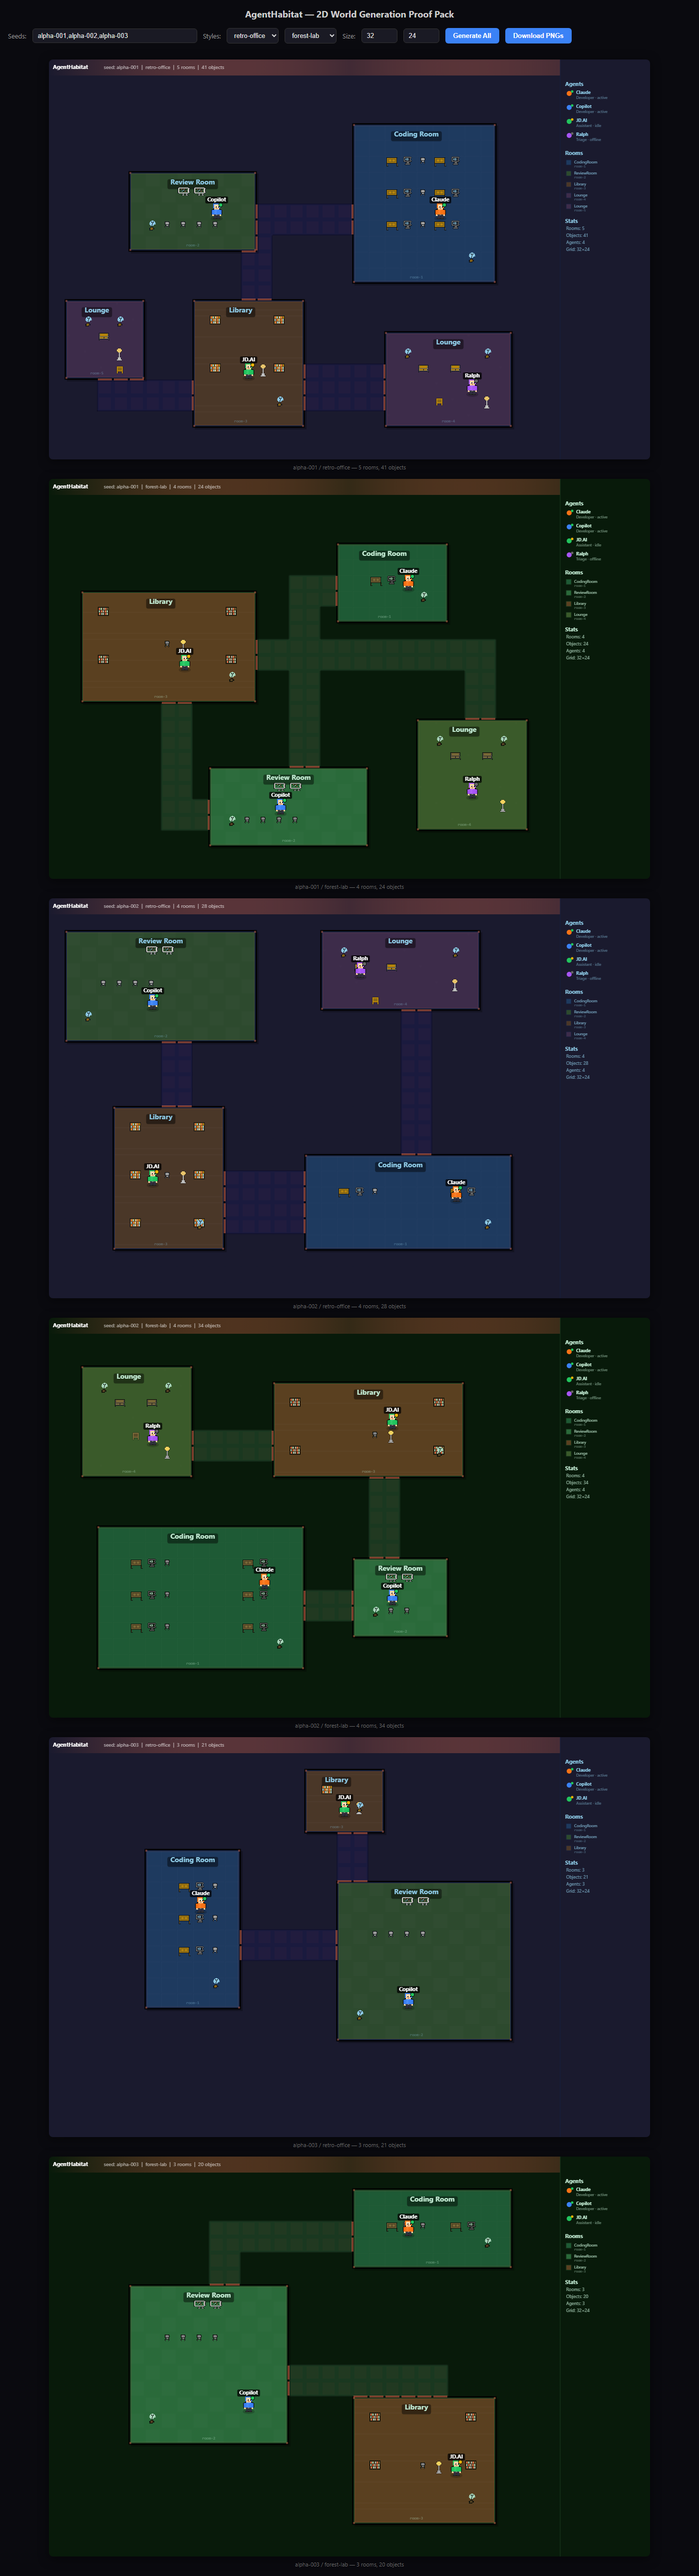
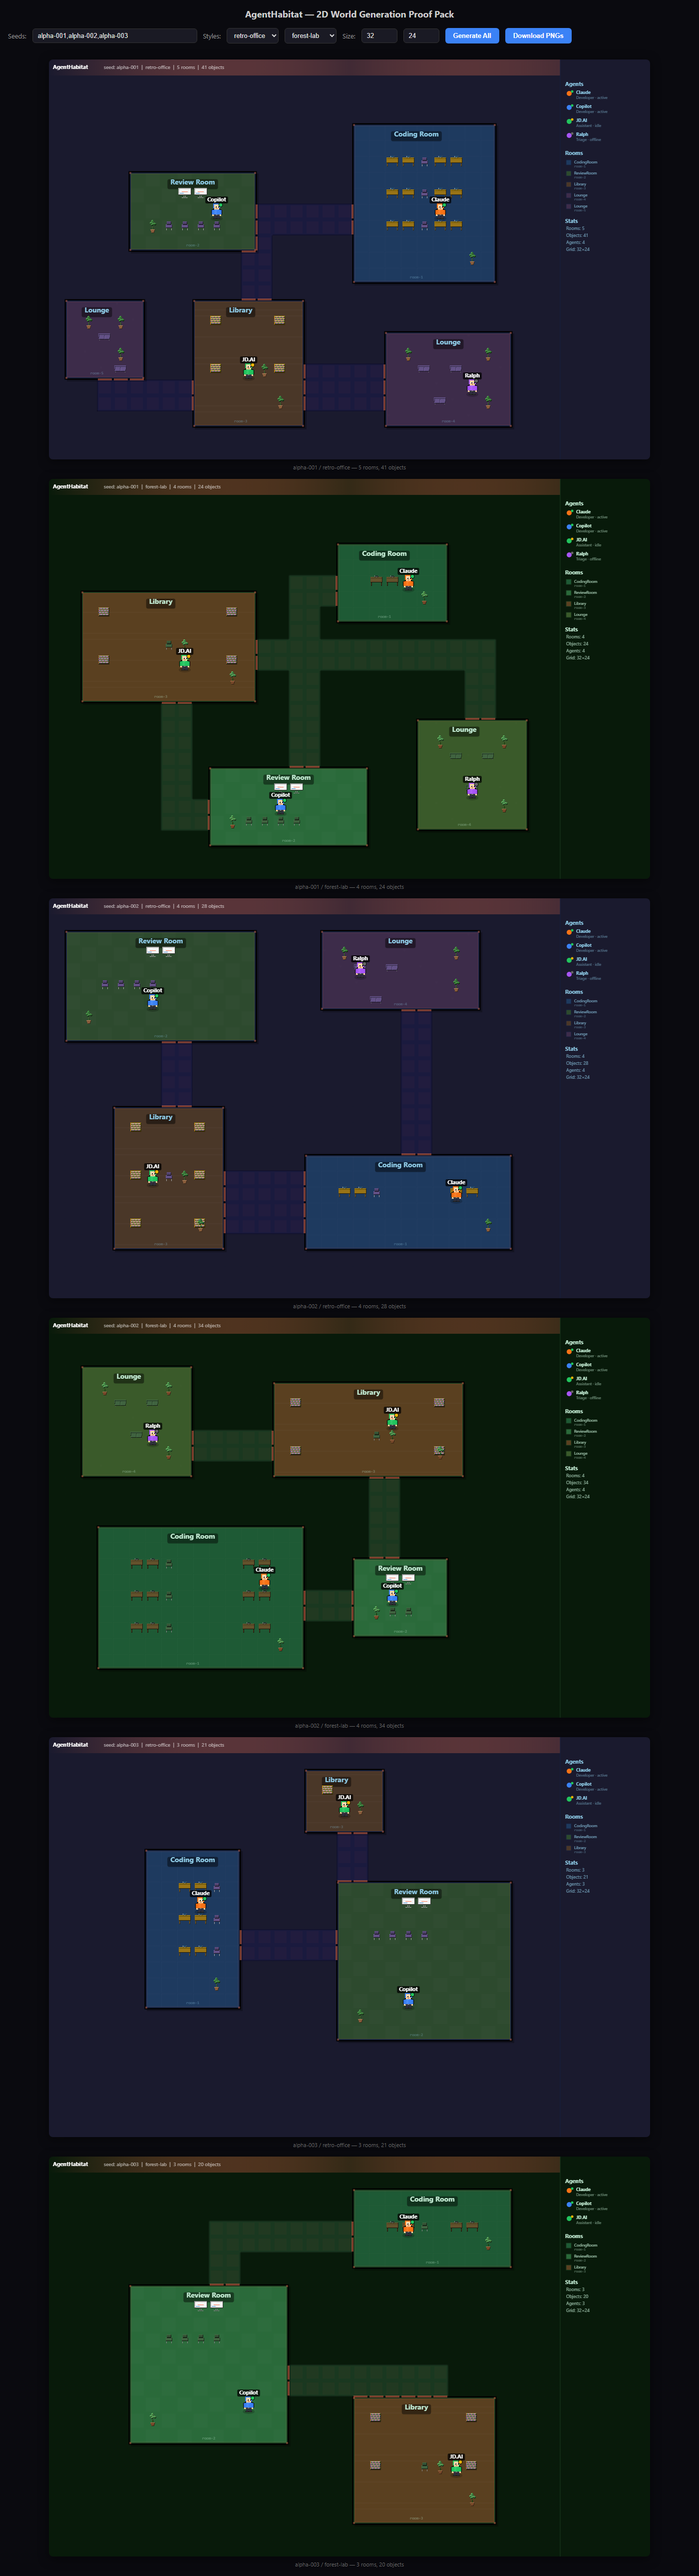
feat(renderer): integrate heightmap lighting into worldgen — all objects now per-pixel lit
Objects now rendered with heightmap-based per-pixel lighting:
- Directional light source (top-left) with diffuse + ambient
- Proper shadows on desk surfaces, monitor screens, bookshelf shelves
- Plant leaves get volumetric lighting from leaf heightmap
- Whiteboard with raised frame and scribble marks
- Couch with armrest depth and cushion division
- Material palettes per theme (wood, metal, fabric, foliage)
- Factory pattern: HM_FACTORIES maps object type → heightmap generator

Massive visual upgrade from flat color fills to lit 3D-feeling sprites.

diff --git a/tools/worldgen-renderer.html b/tools/worldgen-renderer.html
@@ -303,6 +303,123 @@ function drawPixelSprite(ctx, name, px, py, style, scale = 2, overrideColor = nu
   }
 }
 
+// --- Heightmap Lighting Engine ---
+const LIGHT = { x: -0.4, y: -0.6, z: 0.7 };
+function computeLight(hm, w, h) {
+  const l = new Float32Array(w * h);
+  for (let y = 0; y < h; y++) for (let x = 0; x < w; x++) {
+    const i = y * w + x;
+    if (!hm[i]) continue;
+    const hL = x > 0 ? hm[i-1] : hm[i], hR = x < w-1 ? hm[i+1] : hm[i];
+    const hU = y > 0 ? hm[i-w] : hm[i], hD = y < h-1 ? hm[i+w] : hm[i];
+    const nx = (hL-hR)*0.5, ny = (hU-hD)*0.5, nz = 1;
+    const len = Math.sqrt(nx*nx+ny*ny+nz*nz);
+    l[i] = Math.max(0.3, Math.min(1.4, 0.4 + (nx/len*LIGHT.x + ny/len*LIGHT.y + nz/len*LIGHT.z)));
+  }
+  return l;
+}
+function hex2rgb(h) { return { r: parseInt(h.slice(1,3),16), g: parseInt(h.slice(3,5),16), b: parseInt(h.slice(5,7),16) }; }
+function rgb2hex(r,g,b) { return '#'+[r,g,b].map(c=>Math.max(0,Math.min(255,Math.round(c))).toString(16).padStart(2,'0')).join(''); }
+
+function renderLitSprite(ctx, spr, px, py) {
+  const light = computeLight(spr.hm, spr.w, spr.h);
+  for (let y = 0; y < spr.h; y++) for (let x = 0; x < spr.w; x++) {
+    const i = y * spr.w + x;
+    if (!spr.c[i]) continue;
+    const rgb = hex2rgb(spr.c[i]);
+    const b = light[i];
+    ctx.fillStyle = rgb2hex(rgb.r*b, rgb.g*b, rgb.b*b);
+    ctx.fillRect(px + x, py + y, 1, 1);
+  }
+}
+
+function hmDesk(pal) {
+  const w=32,h=32,c=new Array(w*h).fill(null),hm=new Float32Array(w*h);
+  const wood = pal.wood||'#8b6914', wl = pal.woodLight||'#b8960b', wd = pal.woodDark||'#6b4e1e';
+  const met = pal.metal||'#a0a0a0', scr = pal.screen||'#1a4a6a';
+  for(let y=4;y<15;y++) for(let x=4;x<28;x++) { c[y*w+x]=wood; hm[y*w+x]=4+(y===4?1:0); }
+  for(let x=5;x<27;x++) { c[5*w+x]=wl; hm[5*w+x]=5; }
+  for(let y=15;y<22;y++) for(const lx of[5,6,25,26]) { c[y*w+lx]=wd; hm[y*w+lx]=2; }
+  for(let y=1;y<4;y++) for(let x=12;x<20;x++) { c[y*w+x]=met; hm[y*w+x]=6; }
+  for(let y=1;y<3;y++) for(let x=13;x<19;x++) { c[y*w+x]=scr; hm[y*w+x]=6.5; }
+  c[4*w+15]=met; c[4*w+16]=met; hm[4*w+15]=5; hm[4*w+16]=5;
+  return {w,h,c,hm};
+}
+function hmChair(pal) {
+  const w=32,h=32,c=new Array(w*h).fill(null),hm=new Float32Array(w*h);
+  const fab = pal.fabric||'#4a3a6a', met = pal.metal||'#a0a0a0';
+  for(let y=10;y<17;y++) for(let x=10;x<23;x++) { c[y*w+x]=fab; hm[y*w+x]=3; }
+  for(let y=4;y<10;y++) for(let x=12;x<21;x++) { c[y*w+x]=fab; hm[y*w+x]=5+(10-y)*0.3; }
+  for(let y=17;y<22;y++) for(const lx of[11,21]) { c[y*w+lx]=met; hm[y*w+lx]=1; }
+  return {w,h,c,hm};
+}
+function hmPlant(pal) {
+  const w=32,h=32,c=new Array(w*h).fill(null),hm=new Float32Array(w*h);
+  const pot=pal.pot||'#8b5e3c', rim=pal.potRim||'#a07050', stem=pal.stem||'#3a5a2a';
+  const leaf=pal.leaf||'#4a8a4a', ld=pal.leafDark||'#2d6a2d';
+  for(let y=20;y<27;y++){const ins=Math.floor((y-20)*0.3);for(let x=12+ins;x<20-ins;x++){c[y*w+x]=pot;hm[y*w+x]=3-ins*0.5;}}
+  for(let x=11;x<21;x++){c[20*w+x]=rim;hm[20*w+x]=4;}
+  for(let y=14;y<20;y++){c[y*w+15]=stem;c[y*w+16]=stem;hm[y*w+15]=2;hm[y*w+16]=2;}
+  for(const[cx,cy]of[[14,10],[18,8],[12,7],[16,5],[20,9],[15,3]]) for(let dy=-2;dy<=2;dy++) for(let dx=-2;dx<=2;dx++){
+    if(dx*dx+dy*dy>5)continue;const px=cx+dx,py=cy+dy;if(px<0||py<0||px>=w||py>=h)continue;
+    const d=Math.sqrt(dx*dx+dy*dy);c[py*w+px]=d<1.5?ld:leaf;hm[py*w+px]=Math.max(hm[py*w+px],6-d);
+  }
+  return {w,h,c,hm};
+}
+function hmBookshelf(pal) {
+  const w=32,h=32,c=new Array(w*h).fill(null),hm=new Float32Array(w*h);
+  const wood=pal.wood||'#8b6914',wl=pal.woodLight||'#b8960b';
+  const bc=['#cc4444','#44aa44','#4444cc','#ccaa44','#aa44aa','#44aaaa'];
+  for(let y=1;y<19;y++) for(let x=3;x<25;x++){c[y*w+x]=wood;hm[y*w+x]=2;}
+  for(const sy of[1,5,9,13,17]) for(let x=3;x<25;x++){c[sy*w+x]=wl;hm[sy*w+x]=3;}
+  for(const sy of[2,6,10,14]) for(let x=4;x<24;x++){
+    const ci=(x*7+sy*13)%bc.length;
+    for(let by=sy;by<sy+3;by++){c[by*w+x]=bc[ci];hm[by*w+x]=4+((x+sy)%3)*0.5;}
+  }
+  return {w,h,c,hm};
+}
+function hmWhiteboard(pal) {
+  const w=32,h=32,c=new Array(w*h).fill(null),hm=new Float32Array(w*h);
+  const met=pal.metal||'#a0a0a0';
+  for(let y=2;y<14;y++) for(let x=4;x<28;x++){c[y*w+x]='#e0e0e0';hm[y*w+x]=5;}
+  for(let y=1;y<15;y++){c[y*w+3]=met;c[y*w+28]=met;hm[y*w+3]=6;hm[y*w+28]=6;}
+  for(let x=3;x<29;x++){c[1*w+x]=met;c[14*w+x]=met;hm[1*w+x]=6;hm[14*w+x]=6;}
+  for(let x=8;x<16;x++){c[5*w+x]='#333';hm[5*w+x]=5.2;}
+  for(let x=10;x<22;x++){c[8*w+x]='#e76f51';hm[8*w+x]=5.2;}
+  for(let x=6;x<14;x++){c[11*w+x]='#3a7aba';hm[11*w+x]=5.2;}
+  for(let y=15;y<20;y++){c[y*w+14]=met;c[y*w+17]=met;hm[y*w+14]=2;hm[y*w+17]=2;}
+  for(let x=10;x<22;x++){c[20*w+x]=met;hm[20*w+x]=1;}
+  return {w,h,c,hm};
+}
+function hmCouch(pal) {
+  const w=32,h=32,c=new Array(w*h).fill(null),hm=new Float32Array(w*h);
+  const fab=pal.fabric||'#4a3a6a',met=pal.metal||'#707070';
+  for(let y=4;y<16;y++) for(let x=4;x<26;x++){c[y*w+x]=fab;hm[y*w+x]=3+(y<6?1:0);}
+  // Armrests
+  for(let y=4;y<12;y++){c[y*w+3]=fab;c[y*w+26]=fab;hm[y*w+3]=5;hm[y*w+26]=5;}
+  // Cushion division
+  for(let y=8;y<15;y++){c[y*w+15]=fab;hm[y*w+15]=2;}
+  // Legs
+  for(const lx of[5,24]){c[16*w+lx]=met;c[17*w+lx]=met;hm[16*w+lx]=1;hm[17*w+lx]=1;}
+  return {w,h,c,hm};
+}
+
+const HM_MATERIAL_PALS = {
+  'retro-office': { wood:'#8b6914',woodLight:'#b8960b',woodDark:'#6b4e1e',metal:'#a0a0a0',screen:'#1a4a6a',fabric:'#5a4a7a',pot:'#8b5e3c',potRim:'#a07050',stem:'#3a5a2a',leaf:'#4a8a4a',leafDark:'#2d6a2d' },
+  'forest-lab': { wood:'#5a4a28',woodLight:'#7a6a38',woodDark:'#3a2a14',metal:'#808080',screen:'#1a3a2a',fabric:'#3a5a3a',pot:'#7a4a2a',potRim:'#906040',stem:'#2a4a1a',leaf:'#5a9a5a',leafDark:'#3a7a3a' },
+  'neon-hq': { wood:'#3a2a3a',woodLight:'#5a3a5a',woodDark:'#2a1a2a',metal:'#6060a0',screen:'#0a2a4a',fabric:'#5a3a6a',pot:'#5a3a4a',potRim:'#7a5060',stem:'#2a3a2a',leaf:'#3a6a5a',leafDark:'#2a5a4a' },
+};
+
+const HM_FACTORIES = {
+  desk: hmDesk, monitor: hmDesk, table: hmDesk,
+  chair: hmChair,
+  plant: hmPlant, lamp: hmPlant,
+  bookshelf: hmBookshelf,
+  whiteboard: hmWhiteboard,
+  couch: hmCouch,
+  'coffee-table': hmCouch,
+};
+
 // --- 32x32 Sprite Palettes (shaded) ---
 const SPRITE_PALS_32 = {
   'retro-office': ['#0d1117','#161b22','#21262d','#30363d','#1a2332','#243447','#2d4157','#6b4e1e','#8b6914','#b8860b','#707070','#a0a0a0','#d0d0d0','#e76f51','#8ecae6','#f0e6d2'],
@@ -479,30 +596,14 @@ function render(canvas, world) {
     }
   }
 
-  // Objects as pixel sprites (native 32x32)
+  // Objects as heightmap-lit sprites
+  const matPal = HM_MATERIAL_PALS[world.opts.style] || HM_MATERIAL_PALS['retro-office'];
   for (const obj of world.objects) {
     const ox = obj.x * tileSize;
     const oy = obj.y * tileSize + oY;
-    const sprName = obj.type === 'table' ? 'desk' : obj.type;
-    // Try native 32x32 sprite first, fall back to 16x16 scaled
-    if (typeof SPRITES_32_DATA !== 'undefined' && SPRITES_32_DATA[sprName]) {
-      const spr = SPRITES_32_DATA[sprName];
-      const spPal = SPRITE_PALS_32[world.opts.style] || SPRITE_PALS_32['retro-office'];
-      for (let row = 0; row < spr.length; row++) {
-        for (let col = 0; col < spr[row].length; col++) {
-          const ch = spr[row][col];
-          if (ch === '.') continue;
-          ctx.fillStyle = spPal[parseInt(ch, 16)];
-          ctx.fillRect(ox + col, oy + row, 1, 1);
-        }
-      }
-    } else if (PIXEL_SPRITES[sprName]) {
-      ctx.globalAlpha = 0.4;
-      for (const [dx, dy] of [[1,0],[-1,0],[0,1],[0,-1]]) {
-        drawPixelSprite(ctx, sprName, ox + dx, oy + dy, world.opts.style, 2, '#111');
-      }
-      ctx.globalAlpha = 1.0;
-      drawPixelSprite(ctx, sprName, ox, oy, world.opts.style, 2);
+    const factory = HM_FACTORIES[obj.type];
+    if (factory) {
+      renderLitSprite(ctx, factory(matPal), ox, oy);
     } else {
       ctx.fillStyle = pal.obj;
       ctx.fillRect(ox + 6, oy + 6, 20, 20);
